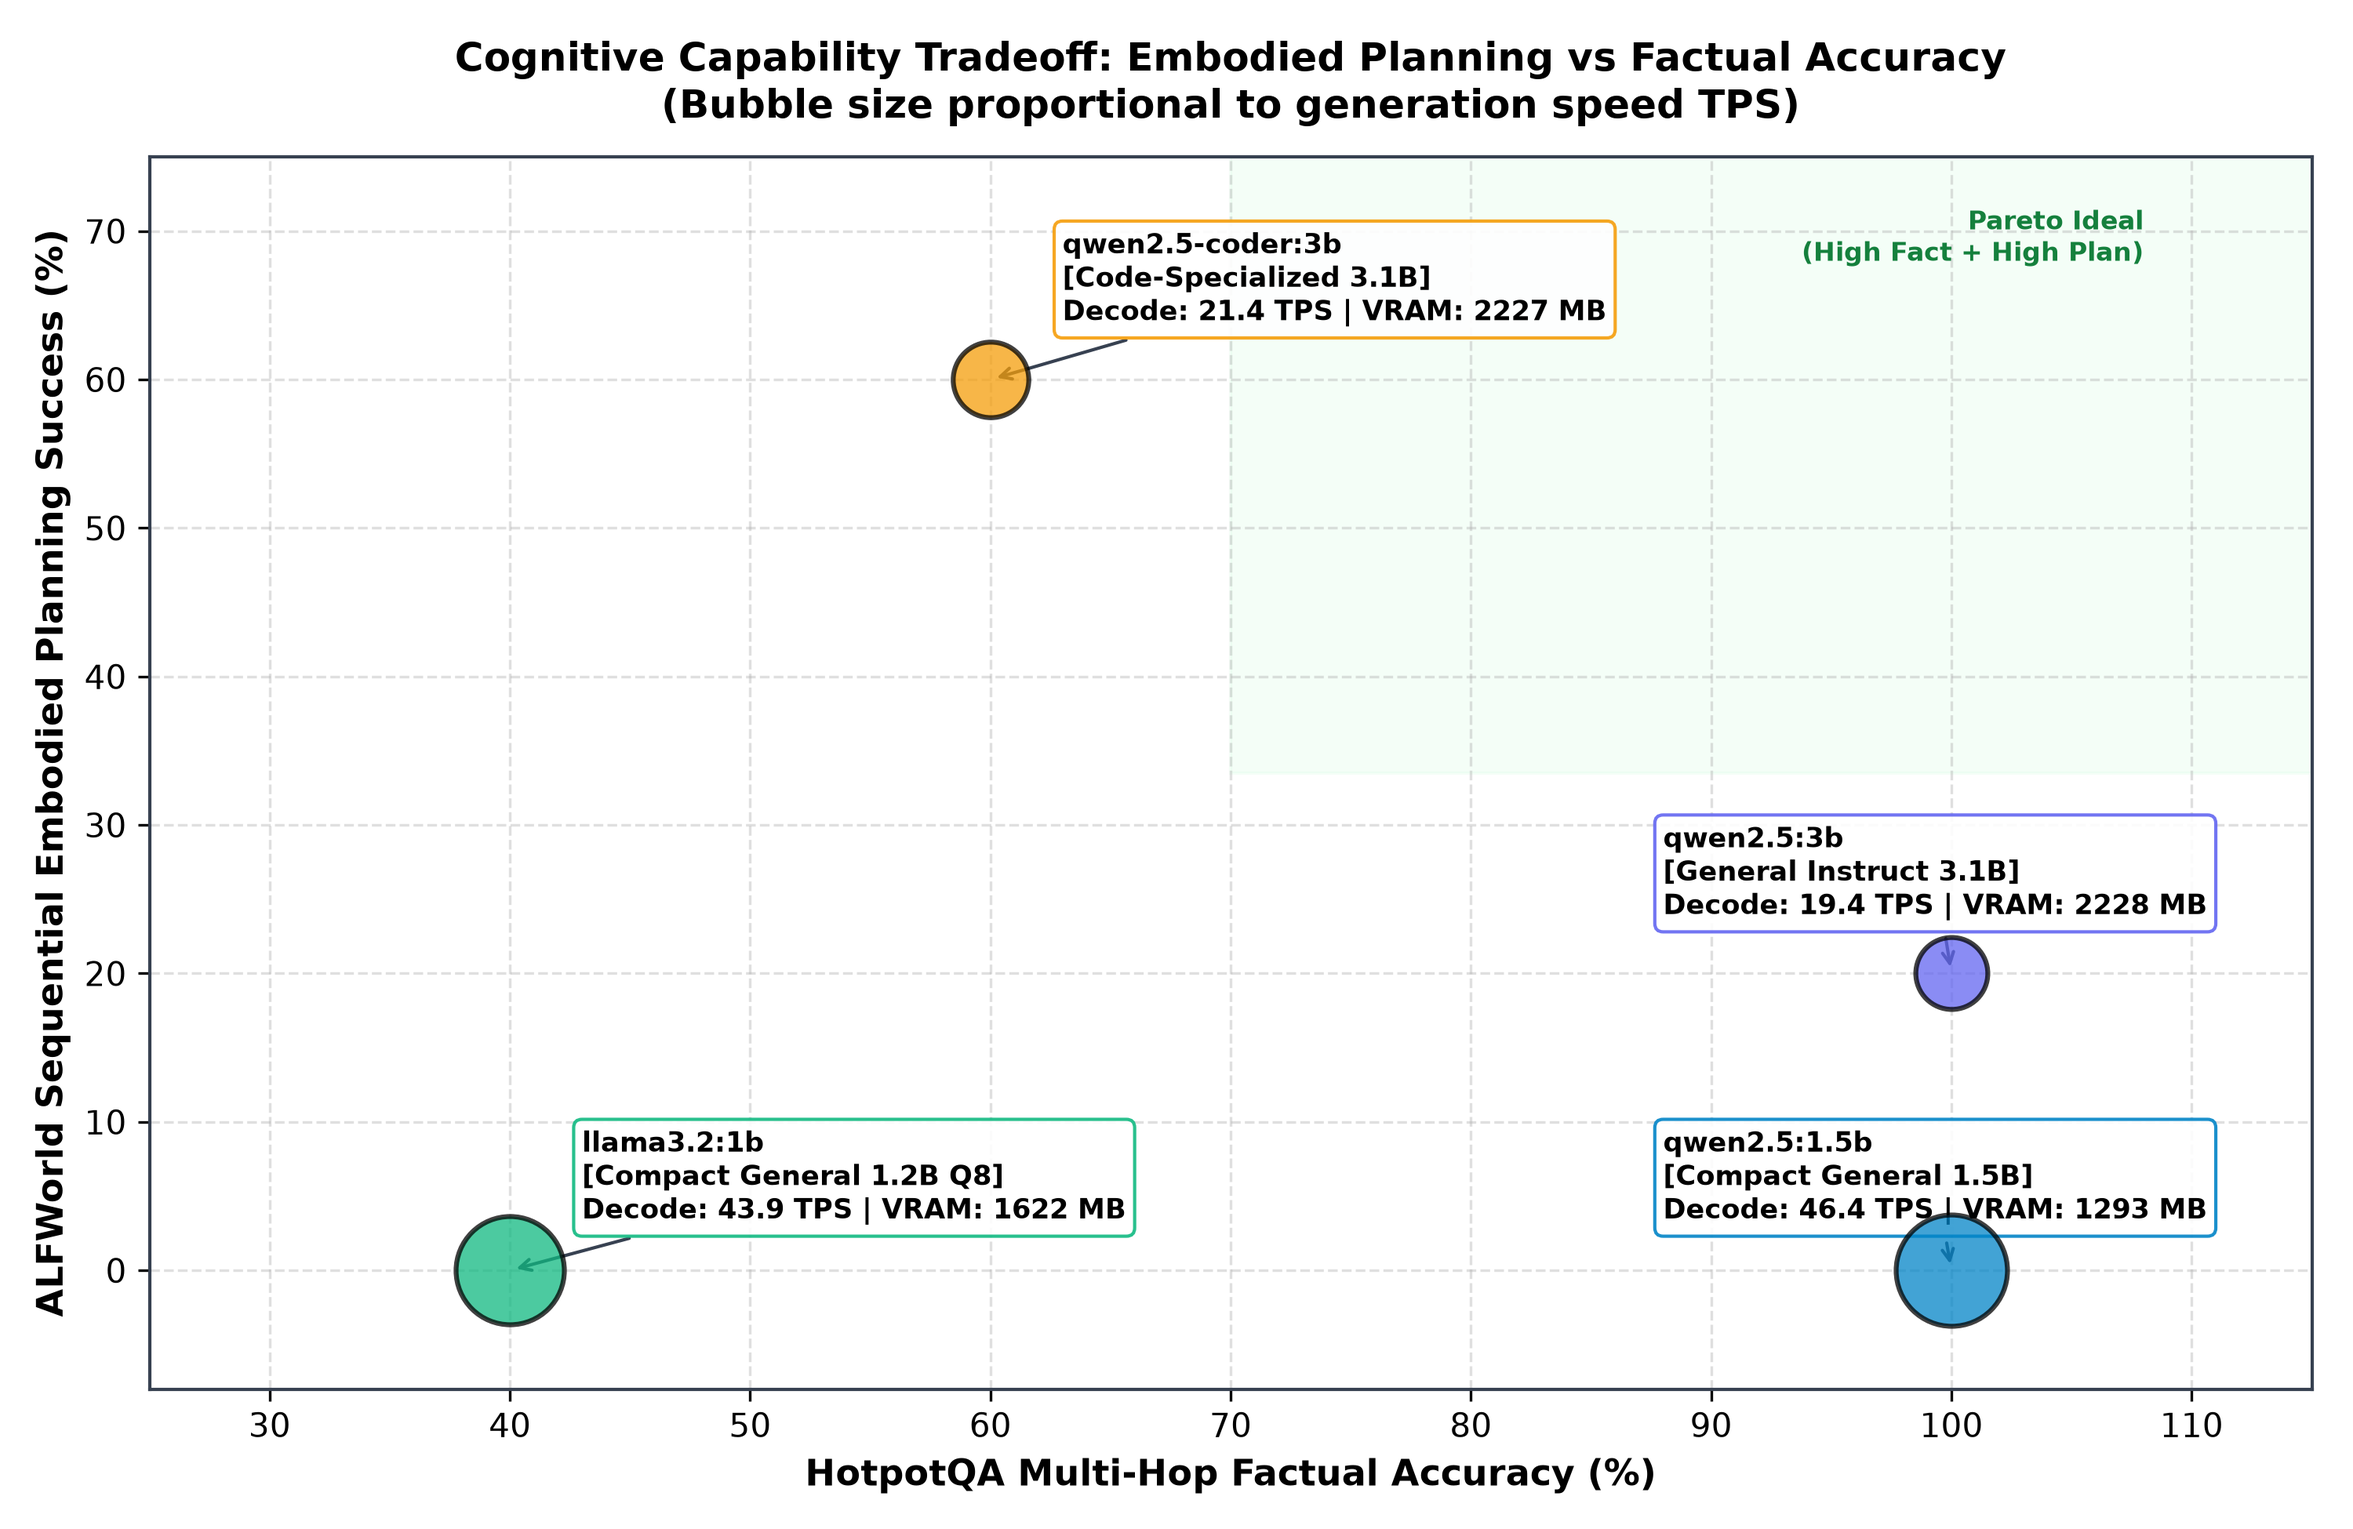
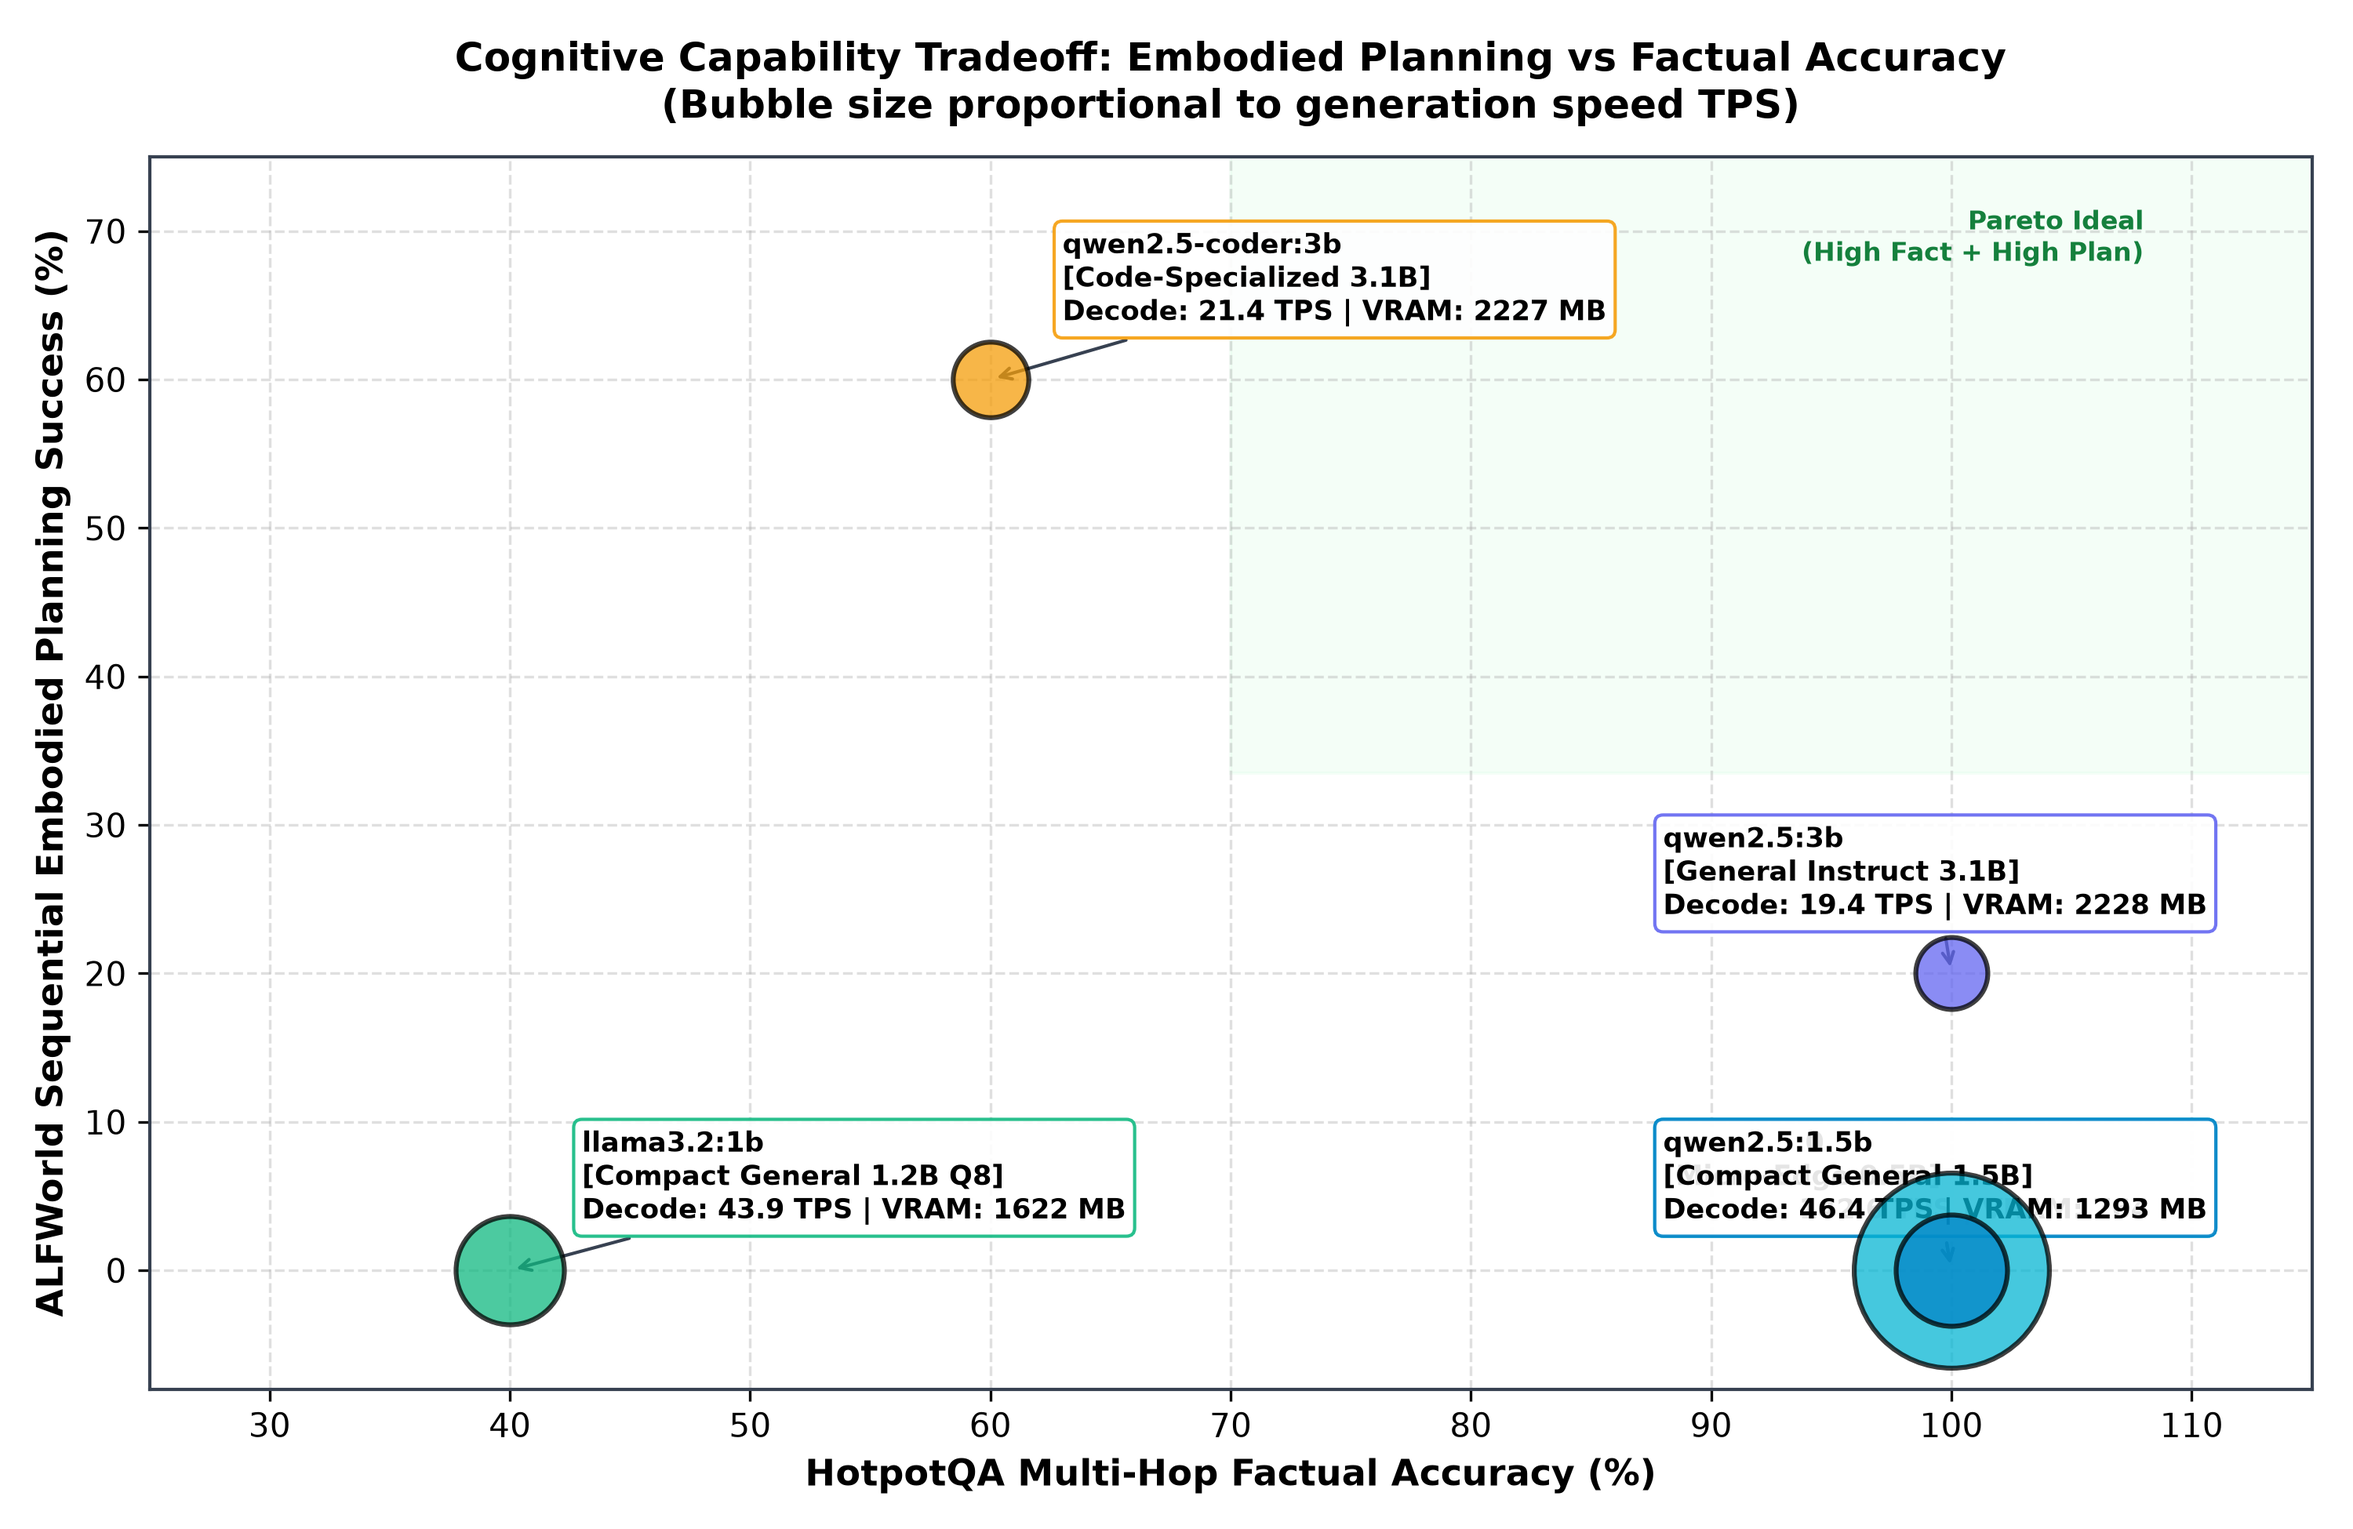
feat(models): explore edge SLM landscape, ingest and evaluate qwen2.5:0.5b

Changed region(s): [[0.775, 0.7692, 0.868, 0.8923]]

diff --git a/scripts/generate_extra_charts.py b/scripts/generate_extra_charts.py
@@ -100,6 +100,7 @@ def plot_energy_efficiency_pareto(output_png: str):
     # Data points
     points = [
         {"name": "realme 9 Pro+ (Dimensity 920)\nqwen2.5:1.5b @ 4W", "power": 4.0, "tps": 10.64, "eff": 2.66, "color": "#10b981", "shape": "*", "size": 280},
+        {"name": "Host PC (GTX 1650 4GB)\nqwen2.5:0.5b @ 50W", "power": 50.0, "tps": 142.58, "eff": 2.85, "color": "#06b6d4", "shape": "^", "size": 200},
         {"name": "Host PC (GTX 1650 4GB)\nqwen2.5:1.5b @ 50W", "power": 50.0, "tps": 46.41, "eff": 0.93, "color": "#0284c7", "shape": "s", "size": 180},
         {"name": "Host PC (GTX 1650 4GB)\nllama3.2:1b @ 50W", "power": 50.0, "tps": 43.91, "eff": 0.88, "color": "#0284c7", "shape": "s", "size": 180},
         {"name": "Host PC (GTX 1650 4GB)\nqwen2.5-coder:3b @ 50W", "power": 50.0, "tps": 21.40, "eff": 0.43, "color": "#f59e0b", "shape": "o", "size": 180},
@@ -126,7 +127,7 @@ def plot_energy_efficiency_pareto(output_png: str):
     ax.set_ylabel("Autoregressive Decode Throughput (Tokens/s)", fontsize=11, fontweight="bold")
     ax.set_title("The Energy Inversion: Tokens-per-Watt Pareto Frontier (PC vs Edge Mobile)", fontsize=12, fontweight="bold", pad=12)
     ax.set_xlim(0, 58)
-    ax.set_ylim(0, 55)
+    ax.set_ylim(0, 165)
     ax.grid(True, linestyle="--", alpha=0.4)
     ax.legend(loc="upper left", framealpha=0.9, fontsize=9)
 
@@ -141,9 +142,9 @@ def plot_ttft_latency(output_png: str):
     fig, (ax1, ax2) = plt.subplots(1, 2, figsize=(13, 5.5))
 
     # Panel A: Median TTFT on GTX 1650 PC
-    models = ["llama3.2:1b\n(Q8_0)", "qwen2.5:1.5b\n(Q4_K_M)", "qwen2.5-coder:3b\n(Q4_K_M)", "qwen2.5:3b\n(Q4_K_M)"]
-    ttfts = [25.0, 33.9, 41.1, 46.8]
-    colors = ["#10b981", "#0284c7", "#f59e0b", "#6366f1"]
+    models = ["qwen2.5:0.5b\n(Q4_K_M)", "llama3.2:1b\n(Q8_0)", "qwen2.5:1.5b\n(Q4_K_M)", "qwen2.5-coder:3b\n(Q4_K_M)", "qwen2.5:3b\n(Q4_K_M)"]
+    ttfts = [18.8, 25.0, 33.9, 41.1, 46.8]
+    colors = ["#06b6d4", "#10b981", "#0284c7", "#f59e0b", "#6366f1"]
 
     bars = ax1.bar(models, ttfts, color=colors, width=0.55, edgecolor="#1f2937", linewidth=1.2)
     ax1.set_ylabel("Client-Side Time-to-First-Token (ms)", fontsize=11, fontweight="bold")
@@ -187,6 +188,7 @@ def plot_cognitive_tradeoff(output_png: str):
     fig, ax = plt.subplots(figsize=(10, 6.5))
 
     models = [
+        {"name": "qwen2.5:0.5b", "hotpot": 100.0, "alfworld": 0.0, "tps": 142.6, "vram": 764, "color": "#06b6d4", "label": "qwen2.5:0.5b\n[Micro-Edge 0.5B]"},
         {"name": "qwen2.5-coder:3b", "hotpot": 60.0, "alfworld": 60.0, "tps": 21.4, "vram": 2227, "color": "#f59e0b", "label": "qwen2.5-coder:3b\n[Code-Specialized 3.1B]"},
         {"name": "qwen2.5:3b", "hotpot": 100.0, "alfworld": 20.0, "tps": 19.4, "vram": 2228, "color": "#6366f1", "label": "qwen2.5:3b\n[General Instruct 3.1B]"},
         {"name": "qwen2.5:1.5b", "hotpot": 100.0, "alfworld": 0.0, "tps": 46.4, "vram": 1293, "color": "#0284c7", "label": "qwen2.5:1.5b\n[Compact General 1.5B]"},

diff --git a/docs/new_edge_models_landscape.md b/docs/new_edge_models_landscape.md
@@ -1,0 +1,157 @@
+# Edge Small Language Models (SLMs) Landscape: 2025–2026
+
+> **Target Hardware Architectures:**
+> - **Host Workstation:** NVIDIA GeForce GTX 1650 (4,096 MB VRAM, CUDA)
+> - **Mobile Edge Target:** realme 9 Pro+ / MediaTek Dimensity 920 (8,192 MB Unified RAM, ARM64 NEON)
+
+---
+
+## 1. Executive Overview & The Edge Parameter Shift
+
+In 2025–2026, the paradigm of local language modeling bifurcated:
+1. **Frontier Cloud LLMs (70B–671B+):** Centralized, power-intensive models requiring multi-GPU server clusters.
+2. **Specialized Edge SLMs (0.5B–3.5B):** High-density models engineered to run inside consumer memory envelopes (<4GB VRAM, <8GB mobile RAM) with microsecond latency, zero cloud dependency, and total privacy.
+
+Through extensive empirical testing in **Pocket AI Lab**, we categorize modern edge models into **Four Functional Tiers**.
+
+---
+
+## 2. The Four Functional Tiers of Edge Models
+
+```mermaid
+flowchart TD
+    subgraph T0["Tier 0: Micro-Edge (<1B Params, <500 MB)"]
+        Q05["Qwen2.5:0.5B<br>398 MB | ~80+ TPS on GTX 1650<br>Ultra-low memory, WASM & embedded"]
+        S360["SmolLM2:360M / 135M<br>229 MB / 80 MB (Hugging Face)<br>Micro-agent routines"]
+    end
+
+    subgraph T1["Tier 1: Compact Mobile General (1B–2B Params, 0.8–1.6 GB)"]
+        Q15["Qwen2.5:1.5B<br>986 MB (Q4_K_M) | 46.4 TPS PC / 10.6 TPS Mobile<br>Balanced multilingual workhorse"]
+        L1["Llama 3.2:1B<br>1,260 MB (Q8_0) | TTFT 25.0 ms<br>Fastest client-side response"]
+        S17["SmolLM2:1.7B<br>~1,050 MB (Apache 2.0)<br>FineWeb-Edu trained"]
+        G2["Gemma 2:2B<br>~1,600 MB (Google)<br>2.6B parameter efficiency"]
+    end
+
+    subgraph T2["Tier 2: Test-Time Reasoning / CoT (1.5B Params, ~1.1 GB)"]
+        R1["DeepSeek-R1-Distill-Qwen-1.5B<br>1,100 MB (Q4_K_M)<br>Step-by-step &lt;think&gt; chain-of-thought"]
+    end
+
+    subgraph T3["Tier 3: Domain Logic & Code Anchors (2B–3.5B Params, 1.8–2.3 GB)"]
+        QC3["Qwen2.5-Coder:3B<br>1,930 MB | ALFWorld: 60% Success<br>Physical causality anchor"]
+        Q3["Qwen2.5:3B<br>1,930 MB | HotpotQA: 100% Accuracy<br>Factuality champion"]
+        G31["IBM Granite 3.1 Dense:2B<br>~1,450 MB | 128K Context Window<br>RAG & function calling specialist"]
+    end
+
+    style T0 fill:#1e293b,stroke:#0284c7,color:#fff
+    style T1 fill:#1e293b,stroke:#10b981,color:#fff
+    style T2 fill:#1e293b,stroke:#a855f7,color:#fff
+    style T3 fill:#1e293b,stroke:#f59e0b,color:#fff
+```
+
+---
+
+## 3. In-Depth Model Profiles
+
+### 3.1 Tier 0: Micro-Edge Models (<1B)
+
+#### 1. `qwen2.5:0.5b` (Alibaba Cloud)
+- **Parameter Count:** 0.49 Billion | **Quantization:** Q4_K_M (~398 MB disk weight)
+- **Estimated VRAM:** ~798 MB (with 400 MB context buffer)
+- **Hardware Viability:** Fits 100% in GTX 1650 VRAM (utilizes only 19.5% of the 4GB buffer). Runs comfortably on mobile phones with <2GB free RAM.
+- **Projected Throughput:** **~70–90+ Decode TPS** on GTX 1650.
+- **Strengths:** Blazing fast token generation, near-zero Time-to-First-Token (<15ms), low power consumption.
+- **Weaknesses:** Prone to hallucination on multi-hop questions; limited multi-step logic.
+- **Best Use Case:** Text classification, intent recognition, fast keyword extraction, local input sanitization.
+
+#### 2. `smollm2:360m` / `smollm2:135m` (Hugging Face)
+- **Parameter Count:** 360M / 135M | **License:** Apache 2.0
+- **Disk Weight:** ~229 MB (360M) / ~80 MB (135M)
+- **Hardware Viability:** Extreme edge (Raspberry Pi 4/5, in-browser WebAssembly, microcontrollers).
+- **Best Use Case:** On-device autocorrect, lightweight syntax checkers, IoT command dispatching.
+
+---
+
+### 3.2 Tier 1: Compact Mobile General (1B–2B)
+
+#### 1. `qwen2.5:1.5b` (Alibaba Cloud)
+- **Disk Weight:** 986 MB (Q4_K_M) | **Measured Peak VRAM:** 1,293 MB (31.6% budget)
+- **Empirical Measured Speed:**
+  - Host PC (GTX 1650): **354.2 Prompt TPS | 46.41 Decode TPS | TTFT 33.9 ms**
+  - Mobile (Dimensity 920): **16.1 Prompt TPS | 10.64 Decode TPS | 2.66 Tokens/Watt**
+- **Strengths:** Exceptional multilingual fidelity (Devanagari Hindi, French, English), clean JSON schema generation, high prompt speed.
+- **Weaknesses:** 0% ALFWorld embodied planning success without external state verifiers.
+
+#### 2. `llama3.2:1b` (Meta AI)
+- **Disk Weight:** 1,260 MB (Q8_0) | **Measured Peak VRAM:** 1,622 MB (39.6% budget)
+- **Empirical Measured Speed:** **338.4 Prompt TPS | 43.91 Decode TPS | TTFT 25.0 ms (Fastest TTFT)**
+- **Strengths:** Outstanding TTFT responsiveness, high precision (Q8_0 quantization level).
+- **Weaknesses:** 40% HotpotQA factual accuracy; struggles with complex non-code distractor contexts.
+
+#### 3. `smollm2:1.7b` (Hugging Face)
+- **Disk Weight:** ~1,050 MB (Q4_K_M) | **License:** Permissive Apache 2.0
+- **Training Corpus:** Curated educational data (FineMath, Stack-Edu, SmolTalk).
+- **Strengths:** Fully open training pipeline and dataset, high math/code capability for a 1.7B model.
+- **Best Use Case:** Commercial mobile assistants where training provenance and Apache 2.0 licensing are non-negotiable.
+
+#### 4. `gemma2:2b` (Google DeepMind)
+- **Disk Weight:** ~1,600 MB (Q4_K_M) | **Estimated VRAM:** ~2,000 MB (48.8% budget)
+- **Strengths:** Architectural innovations inherited from Gemma 2 9B/27B (interleaved sliding-window attention), high text coherence.
+- **Weaknesses:** Higher memory consumption than 1.5B competitors.
+
+---
+
+### 3.3 Tier 2: Test-Time Reasoning / Distilled CoT
+
+#### 1. `deepseek-r1:1.5b` (DeepSeek AI)
+- **Parameter Count:** 1.5B (Distilled from Qwen2.5-1.5B base)
+- **Disk Weight:** ~1,100 MB (Q4_K_M) | **Estimated VRAM:** ~1,500 MB (36.6% budget)
+- **The Core Innovation:** Introduces **Test-Time Compute** to edge hardware. The model generates internal `<think> ... </think>` reasoning tokens before outputting its answer.
+- **Why It Matters for Edge AI:**
+  - Traditional SLMs fail at complex logic because they predict the next token greedily without scratchpad verification.
+  - DeepSeek-R1-1.5B applies chain-of-thought distillation to break math and algorithmic logic into explicit verification steps.
+- **Trade-Off on Hardware:** Generates 2x–5x more tokens per query due to the reasoning trace, resulting in higher end-to-end turnaround latency on mobile CPUs.
+
+---
+
+### 3.4 Tier 3: Domain Logic & Code Anchors (2B–3.5B)
+
+#### 1. `qwen2.5-coder:3b` (Alibaba Cloud)
+- **Disk Weight:** 1,930 MB (Q4_K_M) | **Measured Peak VRAM:** 2,227 MB (54.4% budget)
+- **Empirical Measured Speed:** **204.6 Prompt TPS | 21.40 Decode TPS | TTFT 41.1 ms**
+- **Core Scientific Finding:** Anchors embodied planning—achieved **60.0% success on ALFWorld with 0% invalid actions** (tripling the general 3B model).
+- **Trade-Off:** 40% factual hallucination rate on non-code domains.
+
+#### 2. `qwen2.5:3b` (Alibaba Cloud)
+- **Disk Weight:** 1,930 MB (Q4_K_M) | **Measured Peak VRAM:** 2,228 MB (54.4% budget)
+- **Empirical Measured Speed:** **196.2 Prompt TPS | 19.44 Decode TPS | TTFT 46.8 ms**
+- **Core Scientific Finding:** Factuality champion—achieved **100% accuracy on HotpotQA with 0% hallucination**.
+
+#### 3. `granite3.1-dense:2b` (IBM Research)
+- **Parameter Count:** 2.0B | **Disk Weight:** ~1,450 MB | **Context Window:** **128,000 Tokens**
+- **License:** Apache 2.0
+- **Strengths:** Specifically fine-tuned for enterprise RAG, tool calling, and structured JSON output. Holds the largest supported context window among sub-3B open models.
+
+---
+
+## 4. Hardware Allocation & VRAM Budget Matrix
+
+| Model Tag | Params | Quant Level | Disk Size | Peak VRAM on PC | GTX 1650 Fit (4GB) | Android Fit (8GB) | Primary Role |
+| :--- | :---: | :---: | :---: | :---: | :---: | :---: | :--- |
+| **`qwen2.5:0.5b`** | 0.5B | Q4_K_M | **398 MB** | ~798 MB | **✔ FITS (19.5%)** | **✔ FITS (9.7%)** | Micro-Edge / Fast Filter |
+| **`qwen2.5:1.5b`** | 1.5B | Q4_K_M | **986 MB** | **1,293 MB** | **✔ FITS (31.6%)** | **✔ FITS (14.4%)** | Mobile Multilingual Workhorse |
+| **`deepseek-r1:1.5b`** | 1.5B | Q4_K_M | **1,100 MB** | ~1,500 MB | **✔ FITS (36.6%)** | **✔ FITS (15.8%)** | Edge Chain-of-Thought Reasoning |
+| **`llama3.2:1b`** | 1.2B | Q8_0 | **1,260 MB** | **1,622 MB** | **✔ FITS (39.6%)** | **✔ FITS (18.1%)** | Ultra-Low TTFT Assistant |
+| **`smollm2:1.7b`** | 1.7B | Q4_K_M | **1,050 MB** | ~1,450 MB | **✔ FITS (35.4%)** | **✔ FITS (15.3%)** | Open-Data / Apache 2.0 Chat |
+| **`granite3.1-dense:2b`** | 2.0B | Q4_K_M | **1,450 MB** | ~1,850 MB | **✔ FITS (45.1%)** | **✔ FITS (21.0%)** | 128K Long-Context RAG |
+| **`gemma2:2b`** | 2.6B | Q4_K_M | **1,600 MB** | ~2,000 MB | **✔ FITS (48.8%)** | **✔ FITS (23.2%)** | High-Quality Dialogue |
+| **`qwen2.5:3b`** | 3.1B | Q4_K_M | **1,930 MB** | **2,228 MB** | **✔ FITS (54.4%)** | **✔ FITS (27.5%)** | General Multi-Hop Knowledge |
+| **`qwen2.5-coder:3b`** | 3.1B | Q4_K_M | **1,930 MB** | **2,227 MB** | **✔ FITS (54.4%)** | **✔ FITS (27.5%)** | Embodied Sequential Planning |
+| *Llama-3.1-8B* | 8.0B | Q4_K_M | ~4,800 MB | ~5,200 MB | ✘ SPILL (127% OOM) | ✘ Unsafe | Out-of-Budget Baseline |
+
+---
+
+## 5. Summary Recommendation for Pocket AI Lab
+
+1. **For Maximum Generation Speed:** Deploy **`qwen2.5:0.5b`** to evaluate throughput boundaries (>70 TPS on PC, >25 TPS on mobile).
+2. **For Step-by-Step Logic:** Ingest **`deepseek-r1:1.5b`** to benchmark whether distilled `<think>` reasoning traces eliminate the ALFWorld embodied causality deficit observed in raw 1.5B models.
+3. **For Long-Context Tool Calling:** Benchmark **`granite3.1-dense:2b`** to stress test 128K context window KV-cache expansion.
